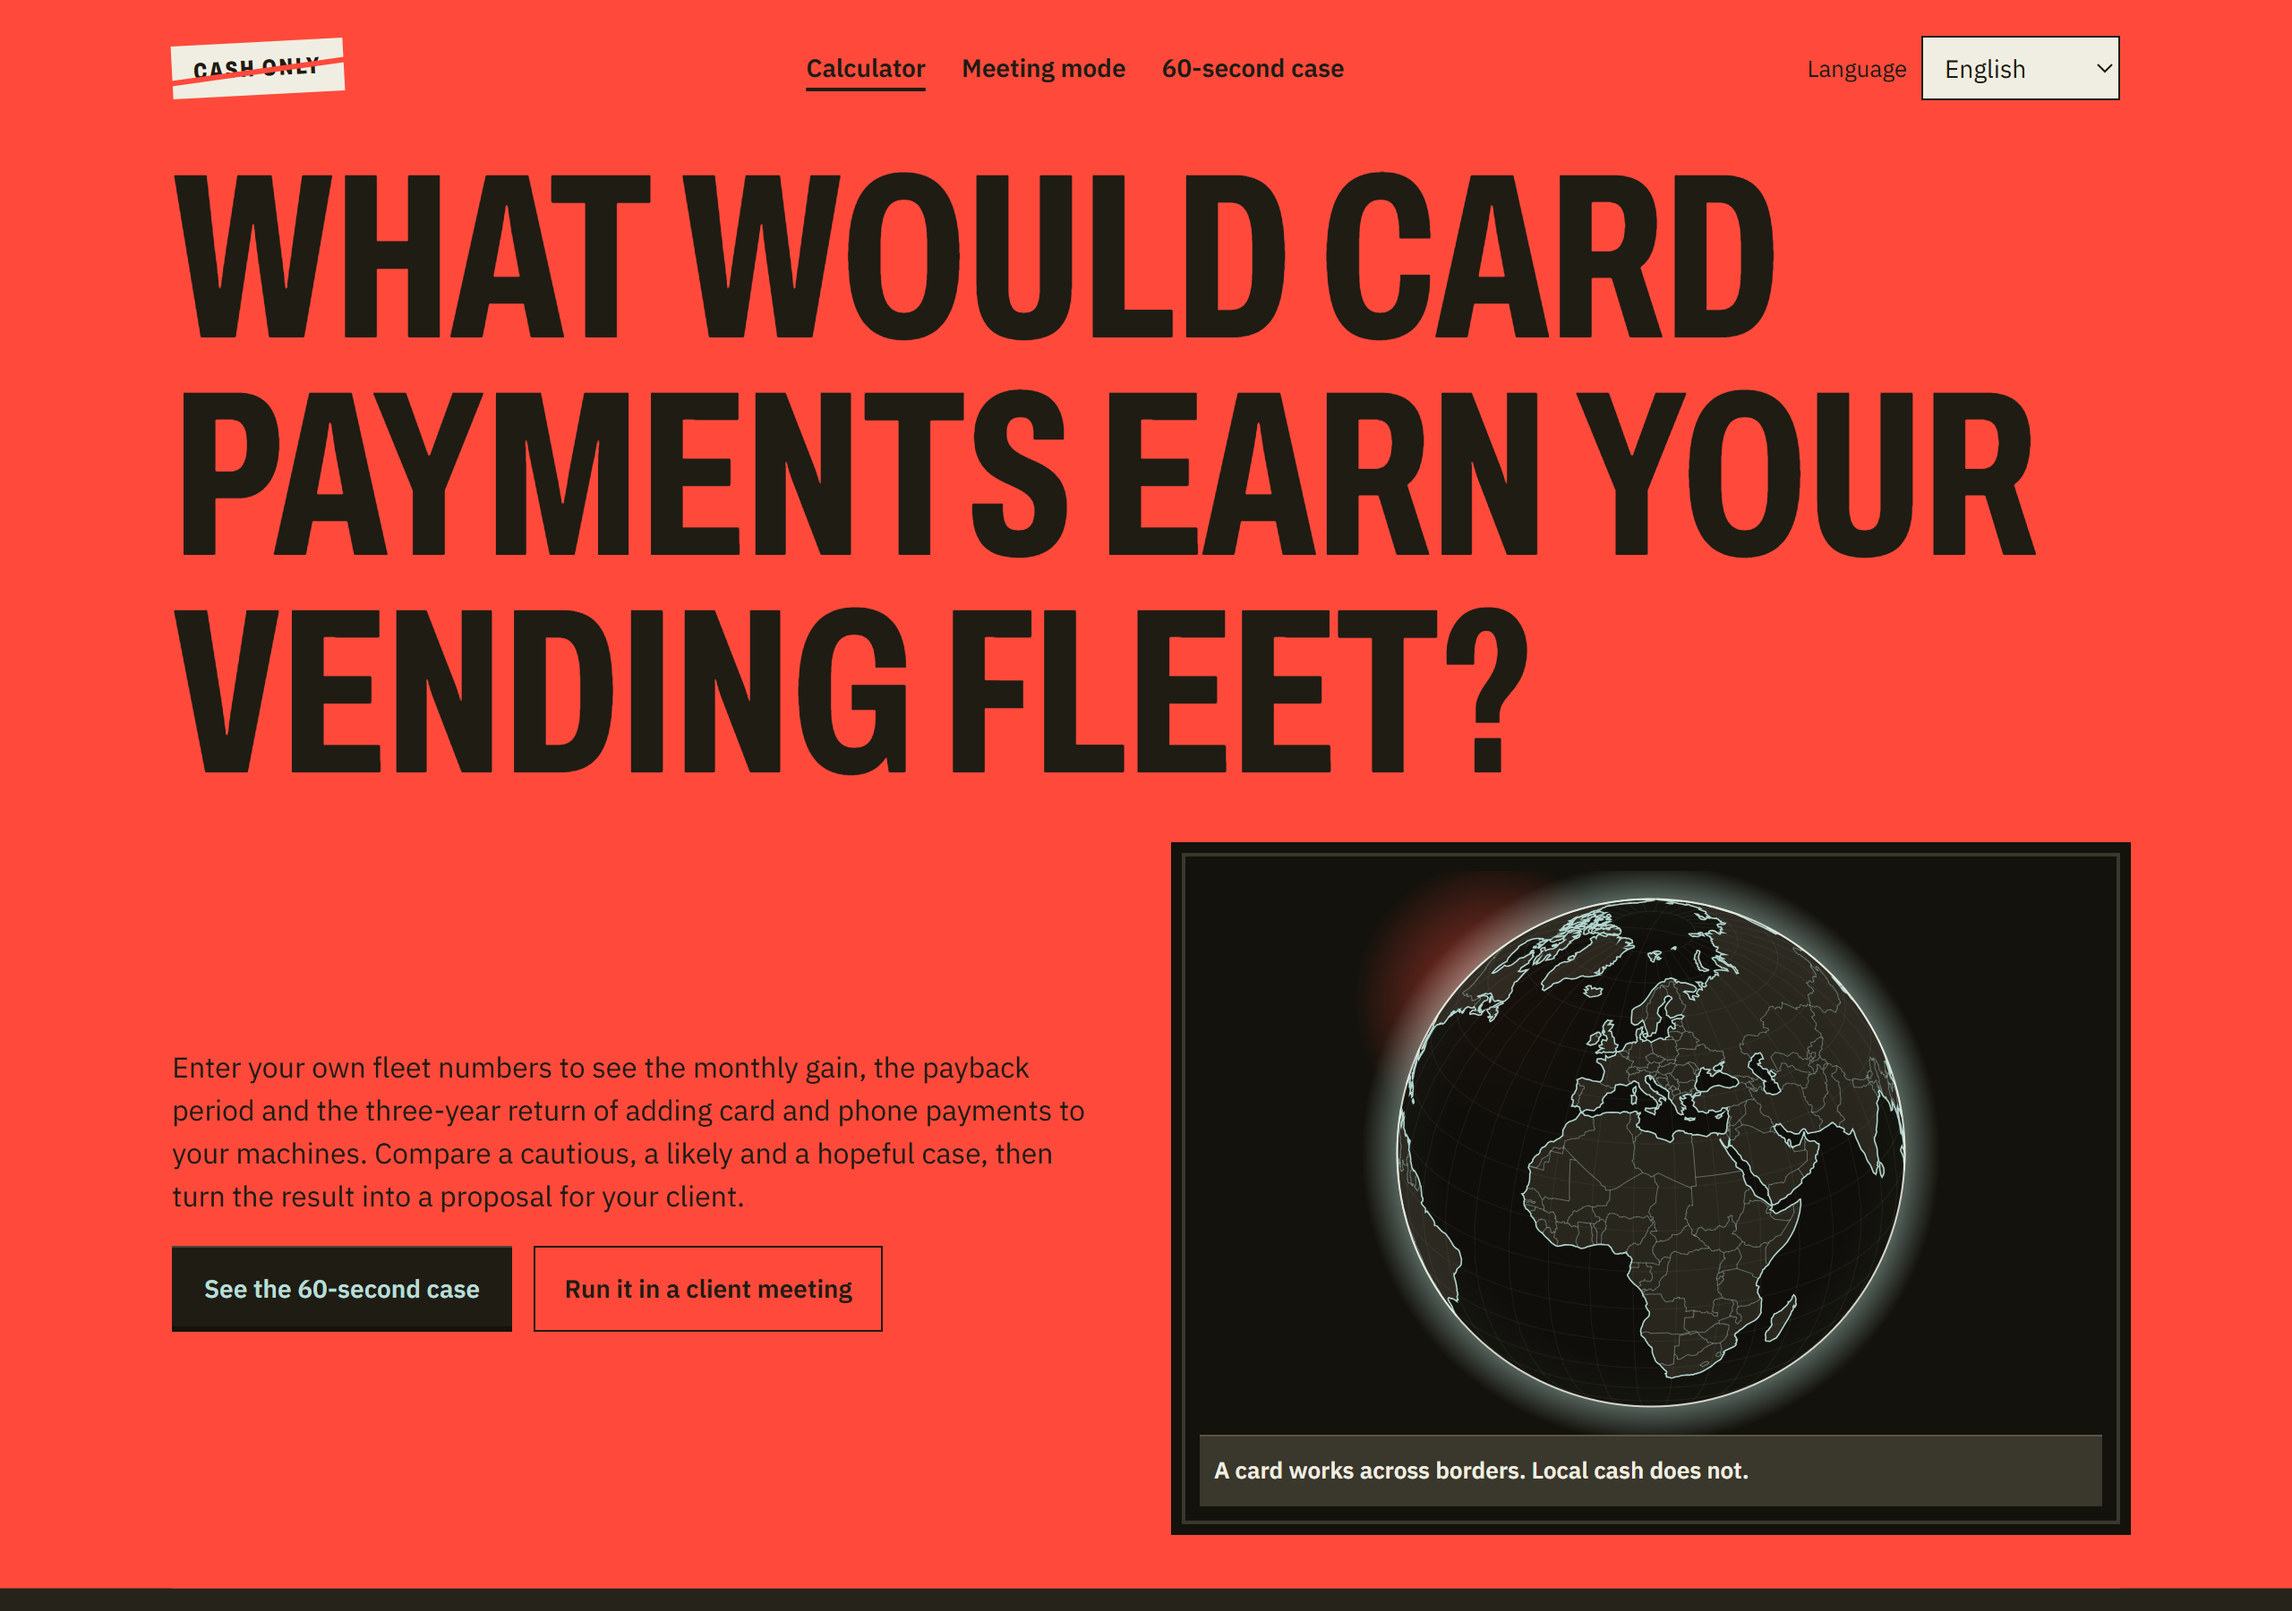
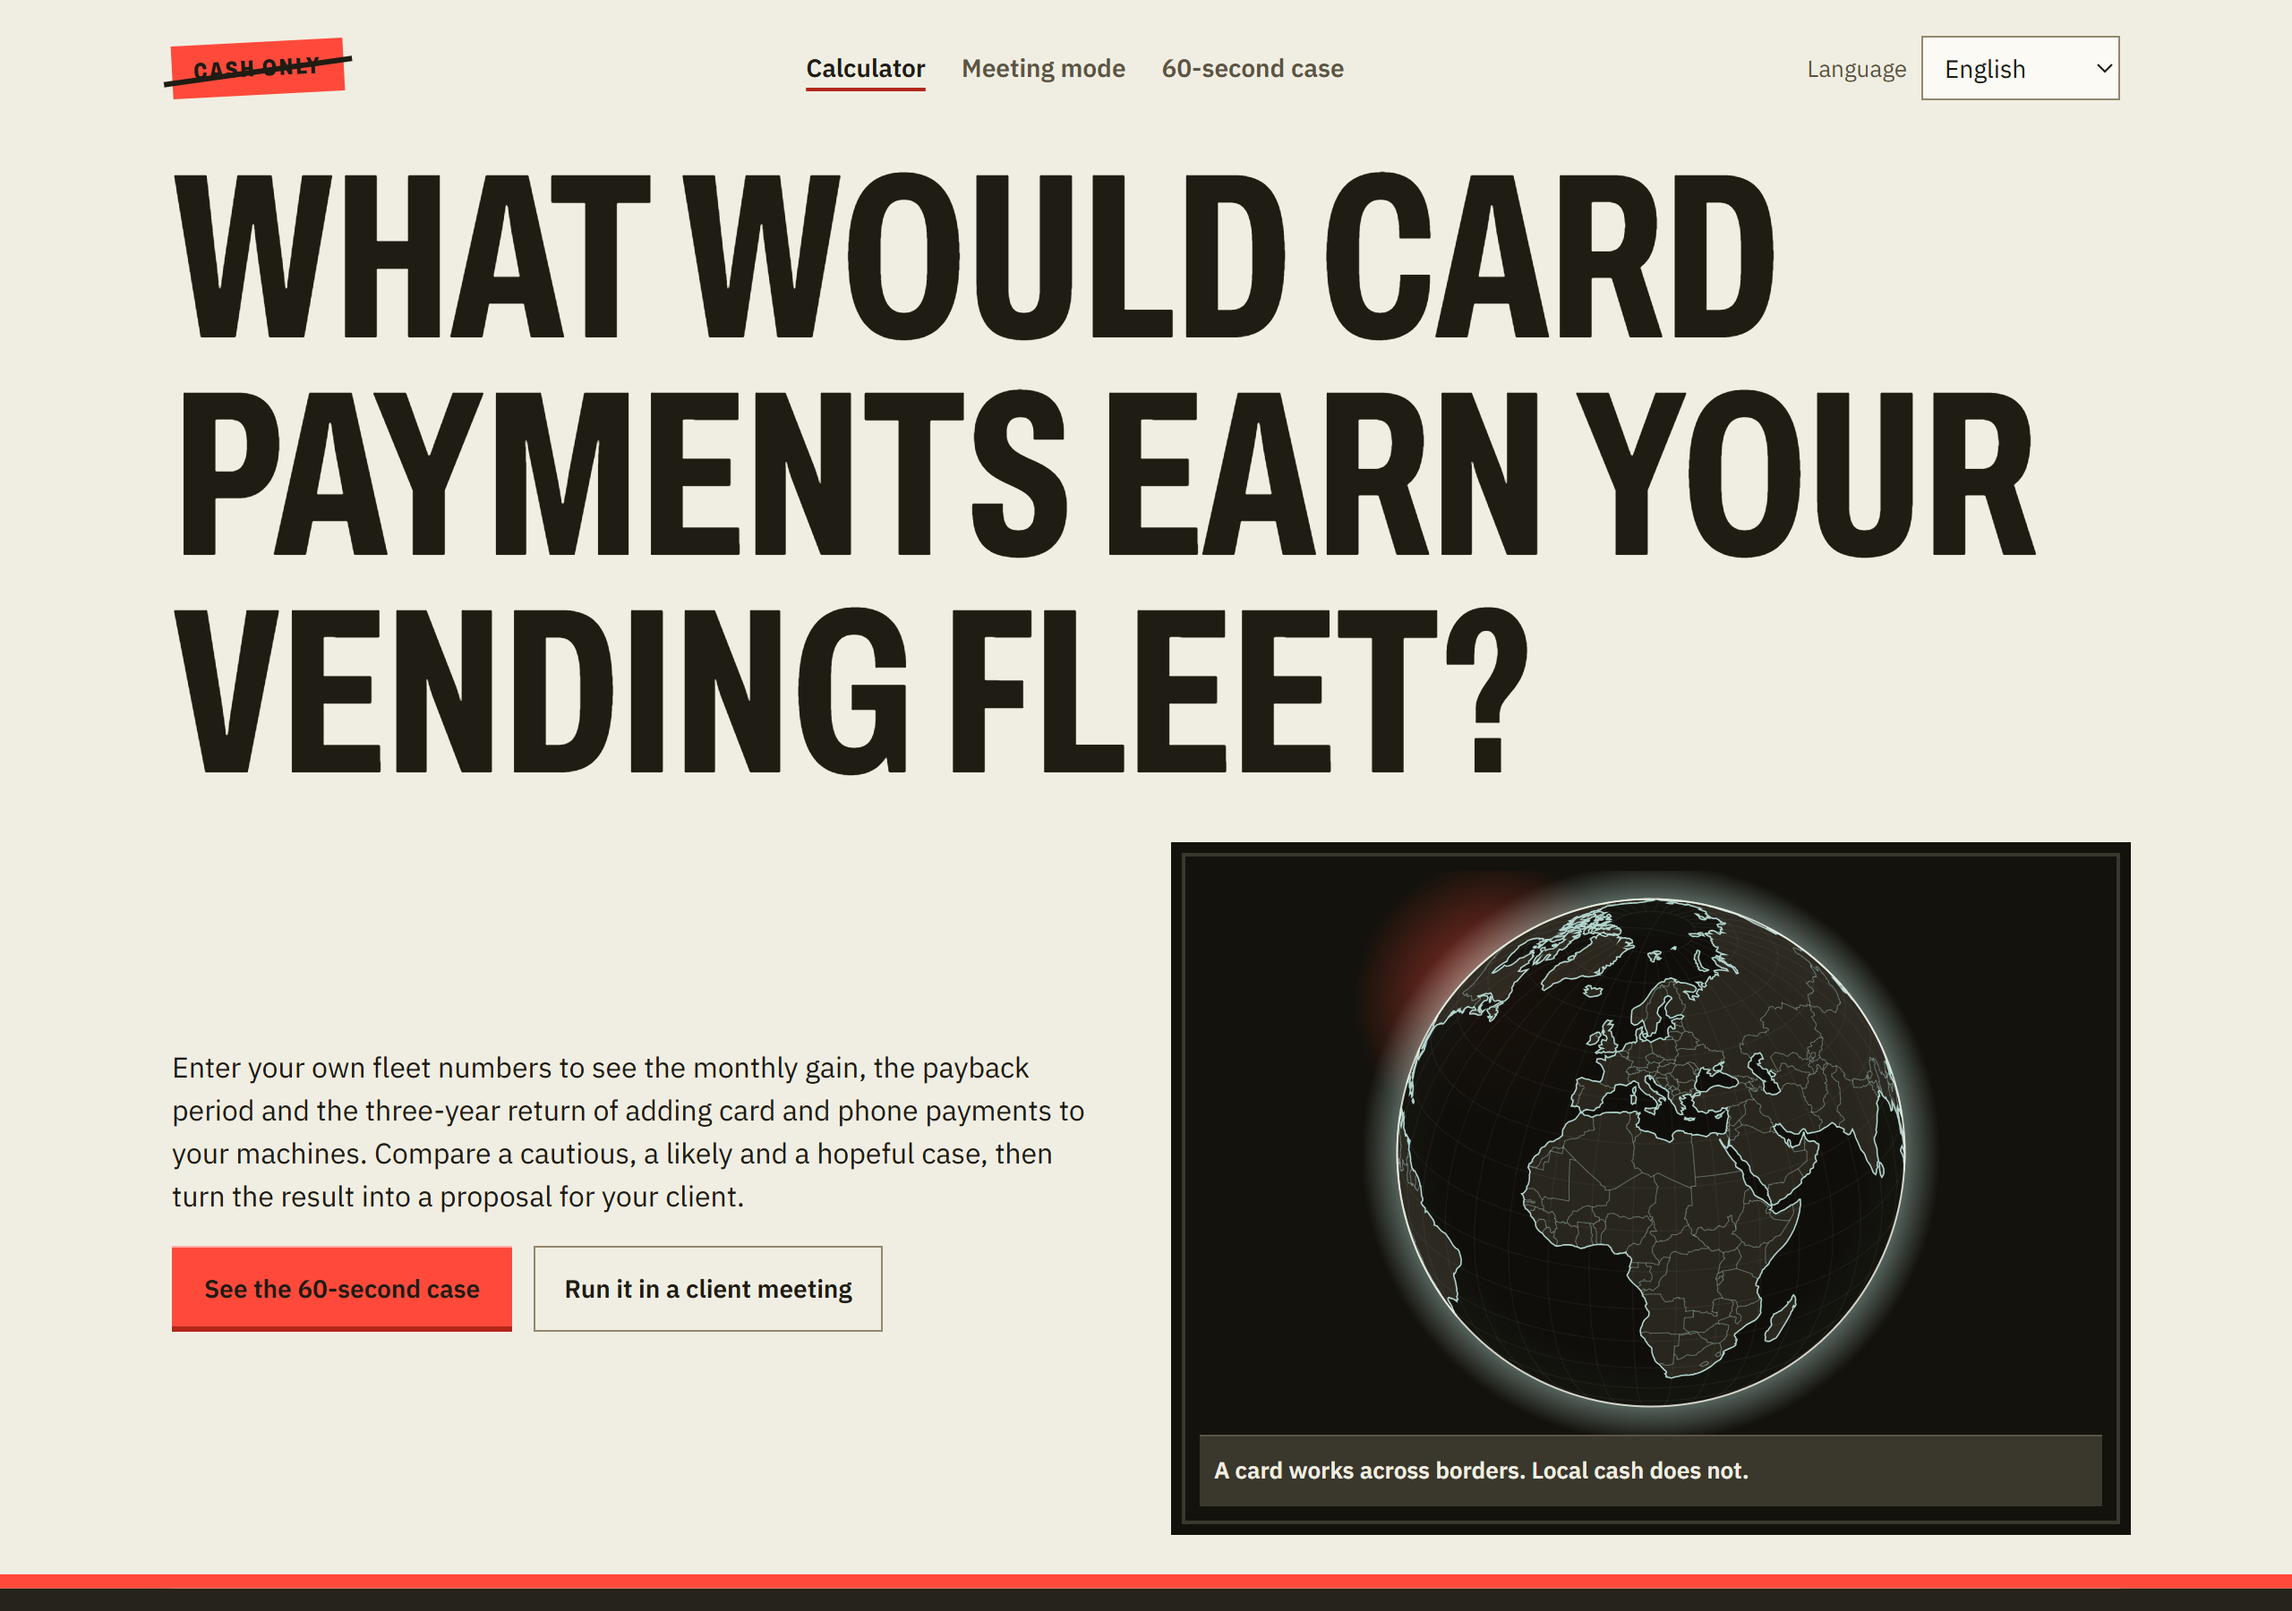
Calm the header: ivory sign with a cinnabar stripe
A full-bleed red header tired the eye. The sign is now ivory with
near-black lettering; cinnabar stays as a stripe under it, on the primary
key and on the sticker.

diff --git a/src/app/globals.css b/src/app/globals.css
@@ -10,6 +10,7 @@
   --cabinet: #26231a;
   --cabinet-deep: #14120c;
   --sign: #ff4a3b;
+  --panel-sign: #f0eee2;
   --signal: #b8ddd6;
   --bg: #fbfaf4;
   --panel: #f0eee2;
@@ -50,17 +51,17 @@
   color: var(--ink); color-scheme: dark;
 }
 
-/* the sign across the top of the machine: full-bleed cinnabar, near-black lettering */
+/* the sign across the top of the machine: full-bleed ivory, easy on the eye, with a cinnabar stripe under it */
 .on-sign {
-  --ink: #1f1c14; --muted: #1f1c14; --line: #1f1c14; --accent: #1f1c14; --coin: #1f1c14;
-  --panel: #f0eee2; --bg: #f0eee2;
-  color: var(--ink); color-scheme: light;
-  background: var(--sign); box-shadow: 0 0 0 100vmax var(--sign); clip-path: inset(-100vmax -100vmax 0);
+  --ink: #1f1c14; --muted: #5c5443; --line: #93876e; --accent: #b3261a; --coin: #b3261a;
+  --panel: #fbfaf4; --bg: #fbfaf4;
+  color: var(--ink); color-scheme: light; position: relative;
+  background: var(--panel-sign); box-shadow: 0 0 0 100vmax var(--panel-sign); clip-path: inset(-100vmax -100vmax 0);
 }
+.on-sign::after { content: ""; position: absolute; left: -100vmax; right: -100vmax; bottom: 0; height: 8px; background: var(--sign); }
 .on-sign :focus-visible { outline-color: #1f1c14; }
-.on-sign .key-brass { background: #1f1c14; color: var(--signal); box-shadow: inset 0 1px 0 #4a4537, inset 0 -3px 0 #14120c; }
-.on-sign .key-brass:hover { background: #3a372c; }
-.on-sign .key-brass:active { box-shadow: inset 0 3px 0 #14120c; }
+.on-sign .sticker { background: var(--sign); }
+.on-sign .sticker::after { background: #1f1c14; }
 
 @theme inline {
   --color-bg: var(--bg);
